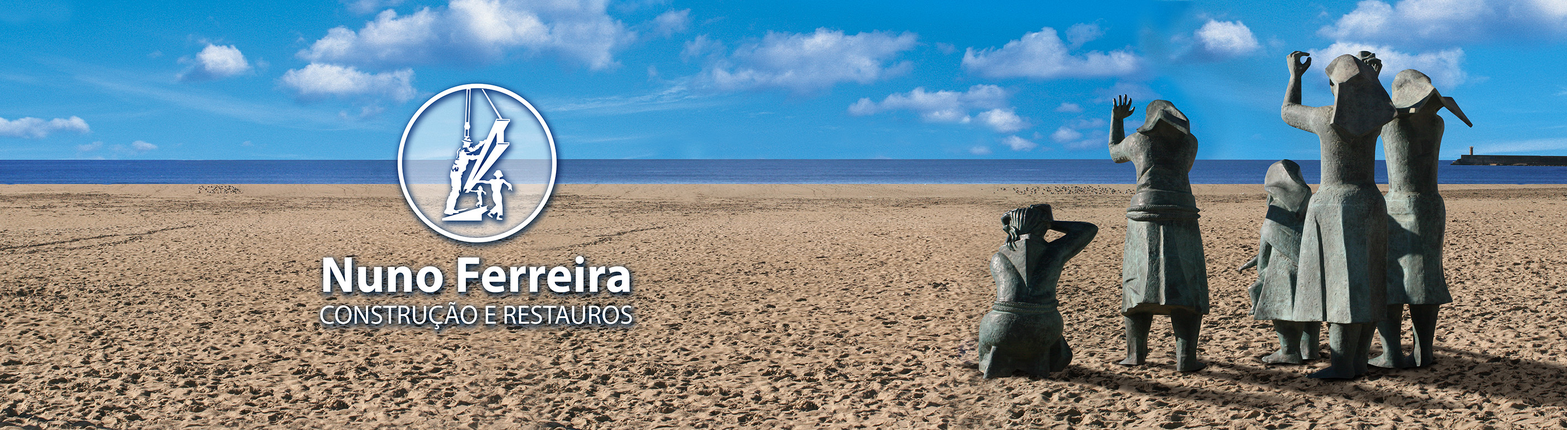
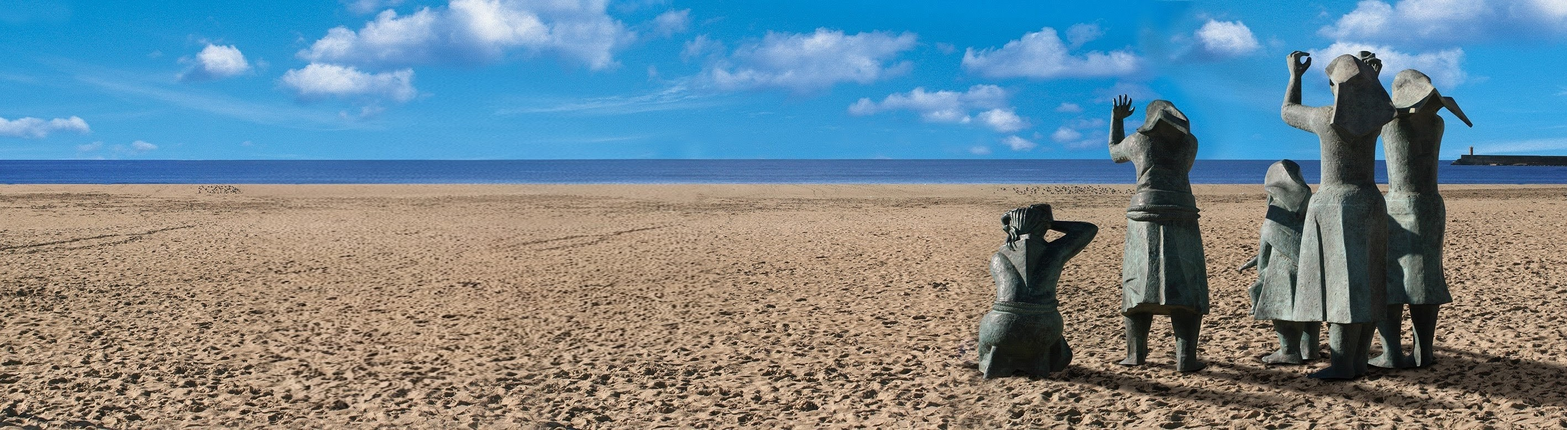
changed index and header

Changed region(s): [[0.1552, 0.1849, 0.4656, 0.9551], [0.7139, 0.2157, 0.745, 0.2773]]

diff --git a/header.html b/header.html
@@ -1,59 +1,74 @@
 <header>
-<div class="content-container">
-    <nav class="navbar-top navbar-expand-lg navbar-light h-50px">
-        <form class="form-inline mt-1 ms-1">
-            <a href="tel:+351910857380" class="btn-navbar" type="button">
-                <i class="bi bi-telephone me-1"></i> +351 910 857 380
-            </a>
-            <a href="mailto:geral@nuno-ferreira.pt" class="btn-navbar ms-2" type="button">
-                <i class="bi bi-envelope me-1"></i> geral@nuno-ferreira.pt
-            </a>
-        </form>
-    </nav>
-</div>
-<!-- BAR 2 -->
-<!-- Barra de navegação -->
-<div class="content-container">
-    <nav class="navbar navbar-expand-lg navbar-light">
-        <div class="container-fluid d-flex align-items-center justify-content-between">
-            <a href="index.html#home">
-                <img class="text-header-size" src="./assets/images/logo.webp" title="nuno-ferreira">
-            </a>
-
-            <button class="navbar-toggler" type="button" data-bs-toggle="collapse" data-bs-target="#menuNavbar" aria-controls="menuNavbar" aria-expanded="false" aria-label="Toggle navigation">
-                <span class="navbar-toggler-icon"></span>
-            </button>
-            <div class="collapse navbar-collapse justify-content-end" id="menuNavbar">
-
-                <ul class="navbar-nav">
-                    <li class="nav-item nav-border-bottom">
-                        <a class="nav-link" href="index.html#home" data-i18n="home">INÍCIO</a>
-                    </li>
-                    <li class="nav-item nav-border-bottom">
-                        <a class="nav-link" href="company.html" data-i18n="company">A EMPRESA</a>
-                    </li>
-                    <li class="nav-item nav-border-bottom">
-                        <a class="nav-link" href="services.html" data-i18n="services">SERVIÇOS</a>
-                    </li>
-                    <li class="nav-item nav-border-bottom">
-                        <a class="nav-link" href="projects.html" data-i18n="projects">PROJETOS</a>
-                    </li>
-                    <li class="nav-item nav-border-bottom">
-                        <a class="nav-link" href="social.html" data-i18n="social">IMPACTO SOCIAL</a>
-                    </li>
-                    <li class="nav-item nav-border-bottom">
-                        <a class="nav-link" href="contacts.html" data-i18n="contacts">CONTATOS</a>
-                    </li>
-                </ul>
-
-                <a class="navbar-brand align-items-center me-3" href="#">
-                    <div class="language-icons align-items-center move-right">
-                        <img src="./assets/languages/pt.png" alt="Português" class="me-2" onclick="loadLanguage('pt')">
-                        <img src="./assets/languages/en.png" alt="English" onclick="loadLanguage('en')">
+    <div class="container">
+        <nav class="navbar-top">
+            <div class="row d-flex justify-content-center justify-content-md-start">
+                <div class="col-lg-3 col-md-6 col-6">
+                    <a href="tel:+351910857380" class="btn-navbar me-3" type="button">
+                        <i class="bi bi-telephone me-1"></i>+351 910 857 380
+                    </a>
+                </div>
+                <div class="col-lg-8 col-md-6 col-6">
+                    <a href="mailto:geral@nuno-ferreira.pt" class="btn-navbar" type="button">
+                        <i class="bi bi-envelope me-1"></i>geral@nuno-ferreira.pt
+                    </a>
+                </div>
+                <div class="col-lg-1 col-md-6 col-6 pt-2 ps-1">
+                    <div class="language-icons d-flex">
+                        <img src="./assets/images/icon_whatsapp.png" alt="Português" style="max-width: 20px; max-height:15px" class="me-2" onclick="loadLanguage('pt')">
+                        <img src="./assets/languages/en.png" alt="English" style="max-width: 15px; max-height:15px" class="me-2" onclick="loadLanguage('en')">
+                        <img src="./assets/languages/pt.png" alt="Português" style="max-width: 15px; max-height:15px" class="me-2" onclick="loadLanguage('pt')">
+                        <img src="./assets/languages/en.png" alt="English" style="max-width: 15px; max-height:15px" class="me-3" onclick="loadLanguage('en')">
                     </div>
-                </a>
+                </div>
+                <!--wrapper ESQUERDA: telefone + email juntos
+                <div class="d-flex justify-content-center justify-content-md-start">
+                </div>-->
             </div>
-        </div>
-    </nav>
-</div>
+        </nav>
+    </div>
+    <!-- BAR 2 -->
+    <!-- Barra de navegação -->
+    <div class="content-container">
+        <nav class="navbar navbar-expand-lg navbar-light">
+            <div class="container-fluid d-flex align-items-center justify-content-between">
+                <a href="index.html#home">
+                    <img class="text-header-size" src="./assets/images/logo_nuno_ferreira_horizontal.png" title="nuno-ferreira">
+                </a>
+
+                <button class="navbar-toggler" type="button" data-bs-toggle="collapse" data-bs-target="#menuNavbar" aria-controls="menuNavbar" aria-expanded="false" aria-label="Toggle navigation">
+                    <span class="navbar-toggler-icon"></span>
+                </button>
+                <div class="collapse navbar-collapse justify-content-end" id="menuNavbar">
+
+                    <ul class="navbar-nav">
+                        <li class="nav-item nav-border-bottom">
+                            <a class="nav-link" href="index.html#home" data-i18n="home">INÍCIO</a>
+                        </li>
+                        <li class="nav-item nav-border-bottom">
+                            <a class="nav-link" href="company.html" data-i18n="company">A EMPRESA</a>
+                        </li>
+                        <li class="nav-item nav-border-bottom">
+                            <a class="nav-link" href="services.html" data-i18n="services">SERVIÇOS</a>
+                        </li>
+                        <li class="nav-item nav-border-bottom">
+                            <a class="nav-link" href="projects.html" data-i18n="projects">PROJETOS</a>
+                        </li>
+                        <li class="nav-item nav-border-bottom">
+                            <a class="nav-link" href="social.html" data-i18n="social">IMPACTO SOCIAL</a>
+                        </li>
+                        <li class="nav-item nav-border-bottom">
+                            <a class="nav-link" href="contacts.html" data-i18n="contacts">CONTATOS</a>
+                        </li>
+                    </ul>
+
+                    <a class="navbar-brand align-items-center me-3" href="#">
+                        <div class="language-icons align-items-center move-right">
+                            <img src="./assets/languages/pt.png" alt="Português" class="me-2" onclick="loadLanguage('pt')">
+                            <img src="./assets/languages/en.png" alt="English" onclick="loadLanguage('en')">
+                        </div>
+                    </a>
+                </div>
+            </div>
+        </nav>
+    </div>
 </header>

diff --git a/header.css b/header.css
@@ -1,7 +1,7 @@
 .text-header-size {
     width: 100%;
-    height: 85px;
-    padding: 1px 1px 1px 1px;
+    height: 55px;
+    padding: 4px 4px 4px 4px;
 }
 
 .language-icons img {
@@ -21,7 +21,7 @@
     font-size: 15px !important;
     letter-spacing: 1px;
     background-color: rgba(35, 132, 255, 30%);
-    padding: 0.5rem 1rem;
+    padding: 0px;
 }
     .navbar .container {
         display: flex;

diff --git a/index-section.html b/index-section.html
@@ -1,6 +1,7 @@
 <div class="container">
-    <section class="banner">
-    </section>
+    <div class="row">
+    <img src="./assets/images/heroimage.jpg" class="img-fluid p-0" />
+    </div>
 
     <main class="content">
         <!-- RESULTADOS -->
